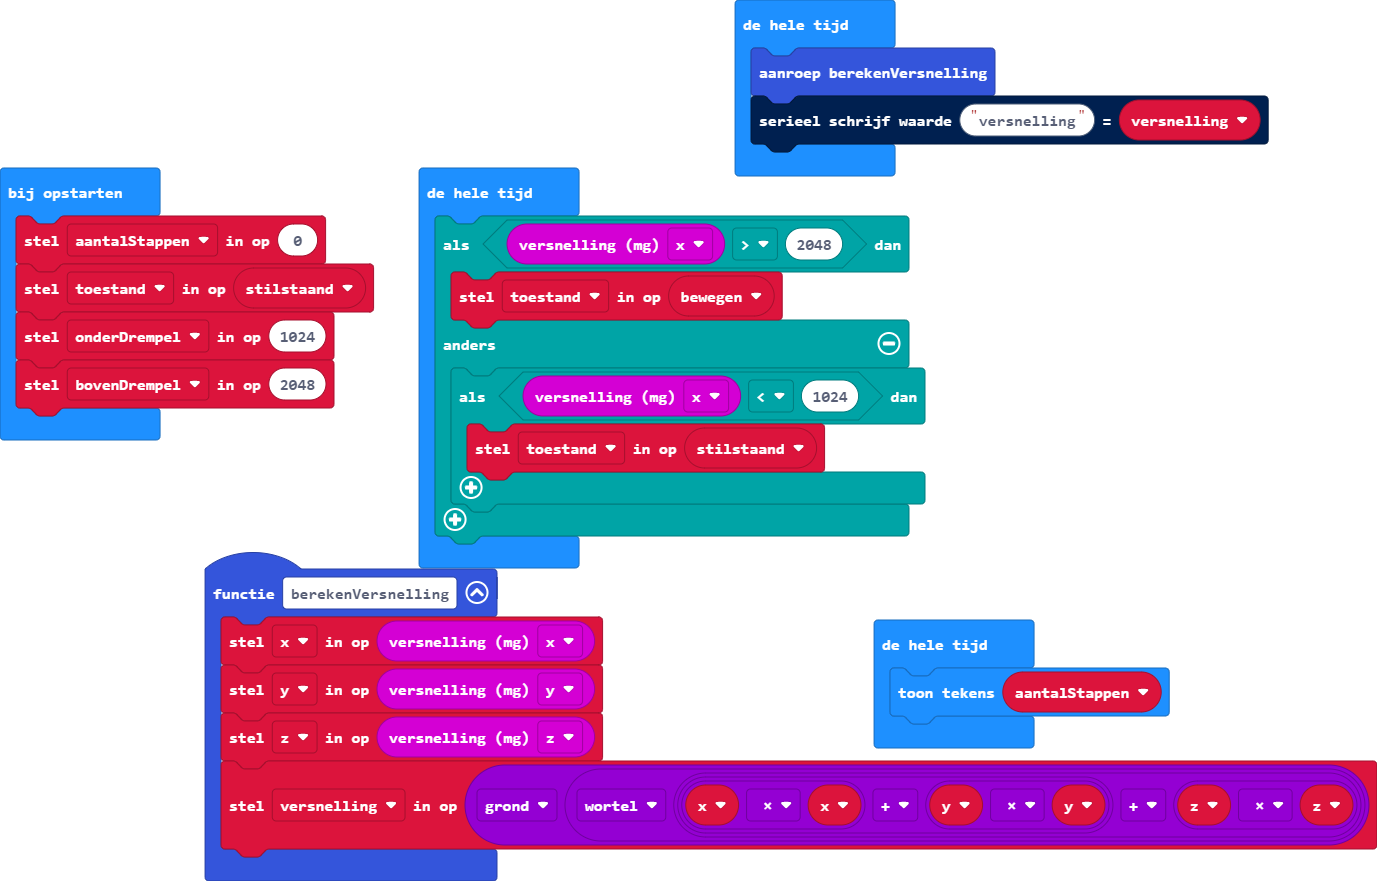
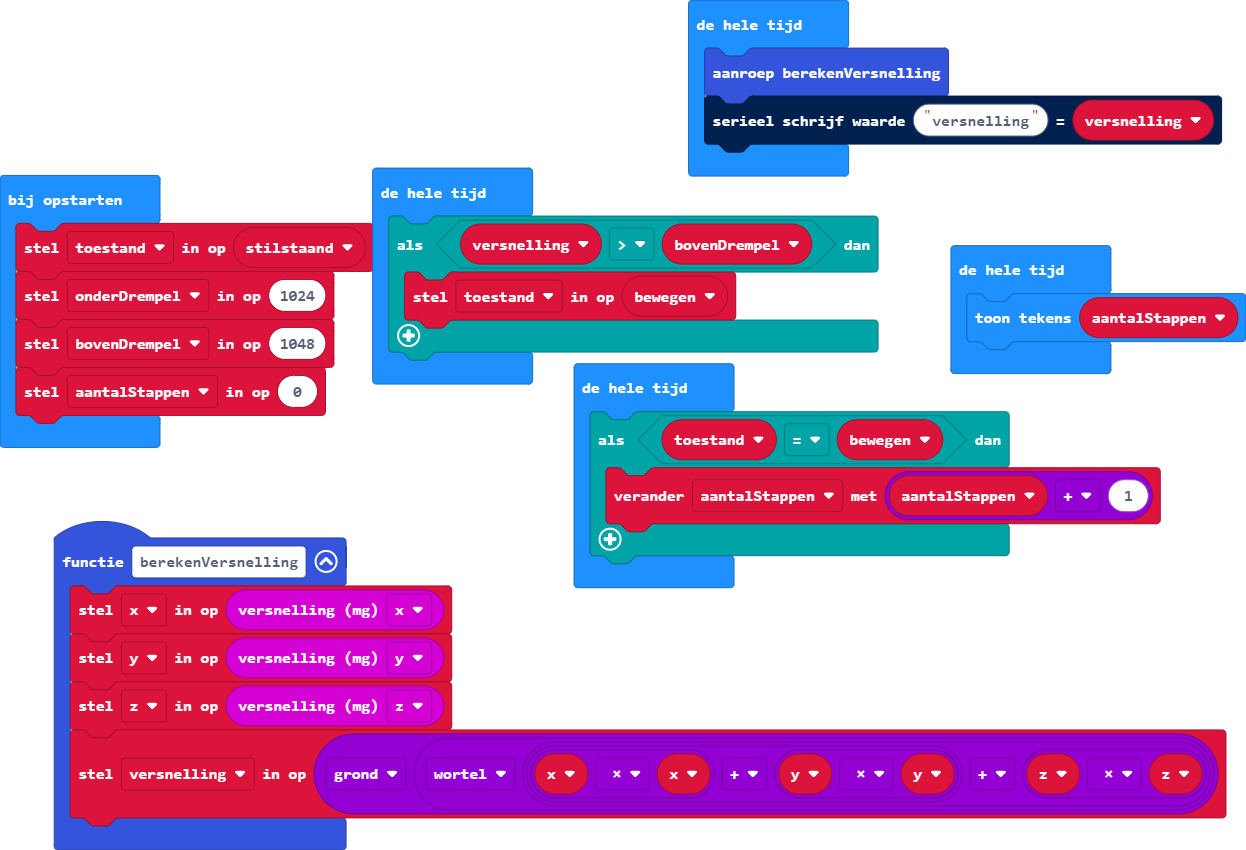
main.blocks, main.ts bijwerken

diff --git a/main.ts b/main.ts
@@ -4,29 +4,30 @@ function berekenVersnelling () {
     z = input.acceleration(Dimension.Z)
     versnelling = Math.floor(Math.sqrt(x * x + y * y + z * z))
 }
+let bewegen = 0
 let versnelling = 0
 let z = 0
 let y = 0
 let x = 0
 let stilstaand = 0
-let aantalStappen = 0
 let toestand = stilstaand
 let onderDrempel = 1024
-let bovenDrempel = 2048
+let bovenDrempel = 1048
+let aantalStappen = 0
 basic.forever(function () {
     berekenVersnelling()
     serial.writeValue("versnelling", versnelling)
 })
 basic.forever(function () {
-    if (input.acceleration(Dimension.X) > 2048) {
-        let bewegen = 0
+    if (versnelling > bovenDrempel) {
         toestand = bewegen
-    } else {
-        if (input.acceleration(Dimension.X) < 1024) {
-            toestand = stilstaand
-        }
     }
 })
 basic.forever(function () {
     basic.showString("" + (aantalStappen))
+})
+basic.forever(function () {
+    if (toestand == bewegen) {
+        aantalStappen += aantalStappen + 1
+    }
 })
